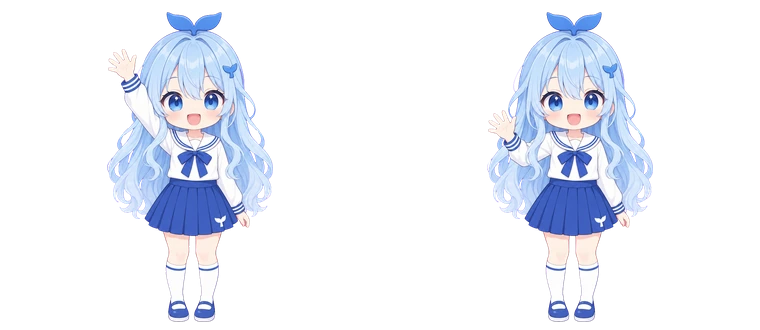
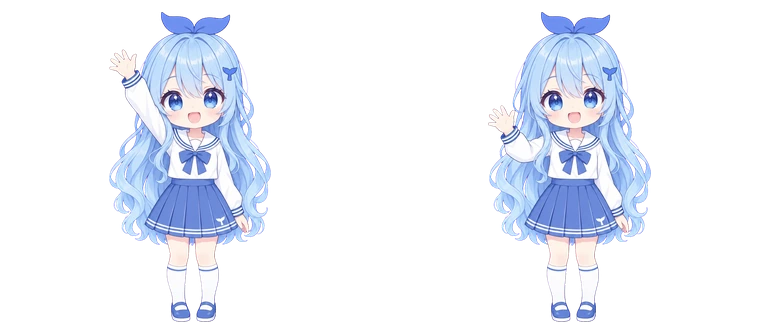
说话那张立绘：领结与裙子调浅到与其余八张同一档，并补上裙摆白线
用户 2026-09-28 问「领结和裙子的颜色是不是太深了，纹路上跟其他也有点不统一」。先量后改，
取领结（胸口中线 y150～172）与裙摆（y200～239），算蓝色像素的中位色：

  参照两张   领结 #517FCE / #7193CB   裙摆 #6484CF / #6582C8   白线 212 / 429 像素
  上一版     裙摆 #4060BE、白线 23 像素，领结同等偏深

按中等矢车菊蓝重出，并把颜色与白线写进 docs/character.md 的表格与中英文提示词——不写死
就会漂回去。本次实测：领结 #6D8AD4（与参照差 19；两张参照自己就互差 55，小区域取样本来就
跳）、裙摆 #708CD9（差 29）、白线 205 像素。

过程中的四个自伤，记在这里免得重犯：验收脚本第一版量的是仓库里那张旧图（拿旧照片验新衣服，
必过不了）；用 bash 的 heredoc 写法喂给 PowerPoint… 不，喂给 PowerShell，整段被解析器挡下；
"领结"的取样框画到了腰带上，等于量的是裙子，白量一轮；最后"量"和"卡"分成两个脚本，改对了
一个、另一个还留着旧框，于是刚换完文件就报"还是偏"，白拦一次。四次都是脚本的错，不是门槛
的错——门槛总共拦下三次不该放行的东西，这次它拦下的是我自己的疏忽。

Changed region(s): [[0.6355, 0.0303, 0.8776, 0.9697], [0.1211, 0.0303, 0.3632, 0.8485], [0.2118, 0.8485, 0.3026, 0.9697]]

diff --git a/docs/character.md b/docs/character.md
@@ -14,8 +14,8 @@
 | 眼睛 | 大而圆，蓝色；张嘴笑 |
 | 领子 | **白色水手领**，边缘两道细藏青条纹，领口系一条藏青领结 |
 | 袖子 | **白色长袖**，袖口宝蓝色滚边（两道细条纹） |
-| 上衣 | **白色**水手衬衫——从领口到腰、连同后背**都是白的**，不是宝蓝马甲；领口系一条宝蓝色缎带蝴蝶结 |
-| 裙子 | 宝蓝色百褶裙，腰上一道宝蓝腰带压着一条细白线，**前左侧一枚白色鲸鱼尾图案** |
+| 上衣 | **白色**水手衬衫——从领口到腰、连同后背**都是白的**，不是宝蓝马甲；领口系一条**中等矢车菊蓝**（同上 `#5B7FC9`）的缎带蝴蝶结，**不要藏青深蓝** |
+| 裙子 | **中等矢车菊蓝**（约 `#5B7FC9`，明显浅于藏青）；百褶有清楚的白色高光线，**裙摆下缘两道细白线**；腰上一道同色腰带压着一条细白线；**前左侧一枚白色鲸鱼尾图案** |
 | 袜子 | 白色及膝袜，袜口一道细蓝条纹 |
 | 鞋 | 蓝色小皮鞋，白鞋底、细白鞋带，**鞋上没有蝴蝶结** |
 
@@ -55,12 +55,12 @@ whale-tail hair clip on the right side of her hair.
 Her outfit is identical in both panels and must not be altered:
 a WHITE sailor blouse (the entire upper garment — chest, shoulders and back, from the collar down to the
 waist — is WHITE, not blue); a WHITE sailor collar with two thin navy stripes along its edge; a royal-blue
-ribbon bow tied at the front of the collar, and the bow stays royal blue; LONG white sleeves with royal-blue
-cuff trim (two thin stripes at each wrist); a royal-blue waistband above a royal-blue pleated skirt, with one
-white whale-tail emblem printed on the lower-left of the skirt (on the left-hand side as we look at the image);
+ribbon bow tied at the front of the collar in the same MEDIUM cornflower blue as the skirt (#5B7FC9, never dark navy); LONG white sleeves with slightly darker navy
+cuff trim (two thin stripes at each wrist); a waistband and a pleated skirt in the SAME medium cornflower blue
+with clean white pleat highlight lines and TWO thin white stripes along the bottom edge near the hem; one white whale-tail emblem printed on the lower-left of the skirt (on the left-hand side as we look at the image);
 white knee-high socks with a single thin blue
 stripe at the top; small blue shoes with white soles and a thin white strap, and no bow on the shoes.
-NO blue bodice, NO blue vest, NO blue pinafore over the chest, NO frills, NO lace, NO puffed sleeves, NO white apron, NO large white bow on the chest.
+NO dark navy blue on the bow or the skirt, NO blue bodice, NO blue vest, NO blue pinafore over the chest, NO frills, NO lace, NO puffed sleeves, NO white apron, NO large white bow on the chest.
 
 The ONLY difference between the two panels is the arm on the left-hand side as we look at her:
 - Panel 1 (left): that arm is raised high beside her head, palm open, waving hello;
@@ -83,9 +83,10 @@ no speech bubbles, no signature, no frame numbers, no dividing line between the 
 **头顶正上方一枚鲸鱼尾形状的结**，右侧一枚小的鲸鱼尾发夹。
 
 她的衣服两格完全一样，不许改：**白色水手衬衫**（从领口到腰、连同后背都是白的，不是宝蓝马甲）；
-**白色水手领**，边缘两道细藏青条纹，领口系一条宝蓝色缎带蝴蝶结；**白色长袖**，袖口宝蓝滚边
-（每只手腕两道细条纹）；宝蓝色百褶裙，
-腰部一条细白线，**裙摆前左侧一枚白色鲸鱼尾图案**；白色及膝袜，袜口一道细蓝条纹；
+**白色水手领**，边缘两道细藏青条纹，领口系一条**中等矢车菊蓝**（约 `#5B7FC9`，不要藏青）的缎带蝴蝶结；**白色长袖**，袖口宝蓝滚边
+（每只手腕两道细条纹）；**中等矢车菊蓝**（约 `#5B7FC9`，不是藏青）的百褶裙，
+百褶带清楚的白色高光线，**裙摆下缘两道细白线**，腰上一道同色腰带压着一条细白线，
+**前左侧一枚白色鲸鱼尾图案**；白色及膝袜，袜口一道细蓝条纹；
 蓝色小皮鞋，白鞋底、细白鞋带，**鞋上没有蝴蝶结**。
 **不要**宝蓝色的上衣（马甲式前襟）、不要褶边、不要蕾丝、不要泡泡袖、不要白围裙、不要胸前的大白蝴蝶结。
 
@@ -107,3 +108,8 @@ no speech bubbles, no signature, no frame numbers, no dividing line between the 
 - 切图脚本 `tools/whale-sprite.py`：两帧必须**共用**同一套裁切与缩放——分别按各自外框裁，
   两帧会差一两个像素，播起来整个角色在抖，比不动还难看（2026-09-21 已实测过这条）。
 - 出图脚本另外自报：人物外框、中缝 12px 内的非透明像素数（不越过中缝就无害）。
+- 颜色的验收：领结与裙摆各取一处取样框，算蓝色像素的中位色，与其余八张比三通道合计色差
+  **≤ 40**；裙摆近下缘的白线像素 **≥ 60**（参照 212～429）。**取样框别画错位置**——本轮把
+  "领结"框画到了腰带上，量出来的其实是裙子，白量一轮（领结在 y≈150～172，裙摆 y≈200～239）。
+  本次实测：领结 `#6D8AD4`、裙摆 `#708CD9`；参照两张分别是 `#517FCE`/`#7193CB` 与
+  `#6484CF`/`#6582C8`。
